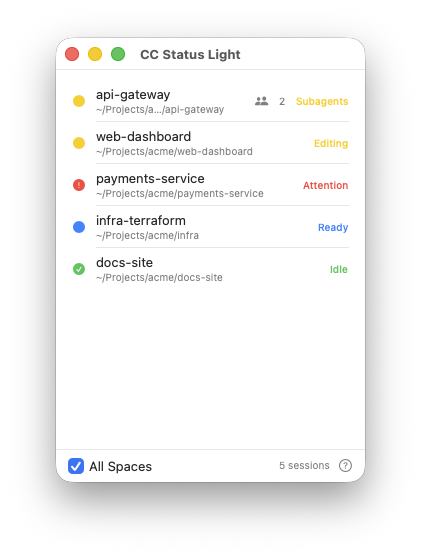
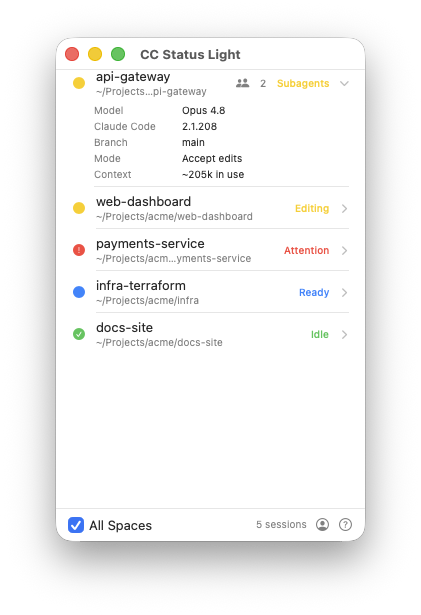
Refresh README screenshot for 0.2 (expanded detail)
New hero shot: five sessions across all states with the top row expanded
to show the per-session detail (model, CC version, branch, mode, context).
Staged from synthetic sessions (fake ~/Projects/acme paths); the account
popover is deliberately not shown (it reads real identity).

diff --git a/README.md b/README.md
@@ -5,7 +5,7 @@ doing — one row each, in a single window.
 
 Native Swift + SwiftUI (AppKit-managed window).
 
-![CC Status Light listing five Claude Code sessions — each with a colour-coded state (Working, Attention, Ready, Idle), a live activity label, and a subagent-count badge](docs/screenshot.png)
+![CC Status Light listing five Claude Code sessions with colour-coded states (Working, Attention, Ready, Idle) and a subagent-count badge; the top row is expanded to show its detail — model (Opus 4.8), Claude Code version, git branch, permission mode, and context tokens in use](docs/screenshot.png)
 
 ## What it shows
 